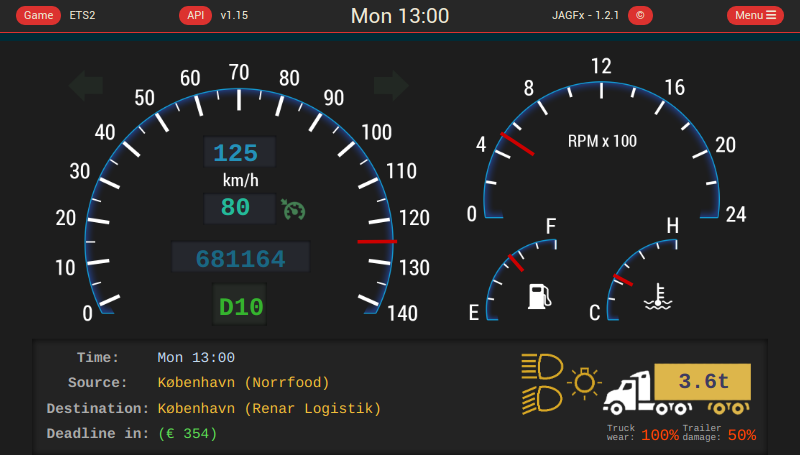
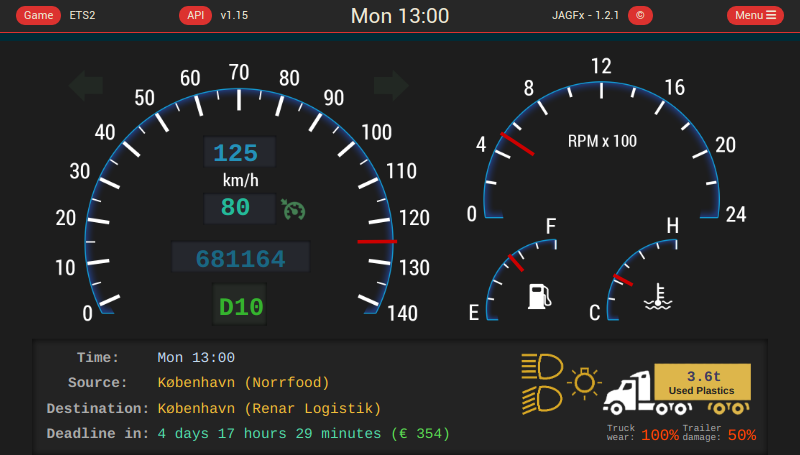
:bug: [default] add missing elements

diff --git a/src/dashboards/defaut/components/DashDefault.vue b/src/dashboards/defaut/components/DashDefault.vue
@@ -62,7 +62,7 @@
 				<div :class="{'yes': dashProps.trailer.attached}" class="trailer-attached"></div>
 				<div class="trailer-mass">{{ (dashProps.job.cargo.mass / 1000).toFixed(1) }}<span class="ton">t</span>
 				</div>
-				<div class="trailer-name"></div>
+				<div class="trailer-name">{{ dashProps.job.cargo.name }}</div>
 				<!-- job information -->
 				<table class="_job">
 					<tr>
@@ -89,8 +89,8 @@
 					</tr>
 					<tr>
 						<th>Deadline in:</th>
-						<td><span class="job-remainingTime"></span>
-							<span class="_jobIncome">(€ <span class="job-income">{{ dashProps.job.income }}</span>)</span>
+						<td><span class="job-remainingTime">{{ formatedTimestamp() }}</span>
+							<span class="_jobIncome"> (€ <span class="job-income">{{ dashProps.job.income }}</span>)</span>
 						</td>
 					</tr>
 				</table>
@@ -114,16 +114,31 @@
 			CadranElement
 		},
 		methods:    {
-			double:       function ( num ) {
+			double:            function ( num ) {
 				return num < 10 ? `0${ num }` : num;
 			},
-			formatedTime: function () {
+			formatedTime:      function () {
 				const telemetryData = this.telemetryData();
 				const date          = new Date( telemetryData.game.time.unix );
 				
 				const days = [ 'Sun', 'Mon', 'Tue', 'Wed', 'Thu', 'Fri', 'Sat' ];
 				
 				return `${ days[ date.getUTCDay() ] } ${ this.double( date.getUTCHours() ) }:${ this.double( date.getUTCMinutes() ) }`;
+			},
+			formatedTimestamp: function () {
+				const telemetryData = this.telemetryData();
+				const d             = new Date( telemetryData.job.deliveryTime.unix );
+				const dys           = d.getUTCDate() - 1;
+				const hrs           = d.getUTCHours();
+				const mnt           = d.getUTCMinutes();
+				let o               = dys > 1 ? dys + ' days ' : (dys != 0 ? dys + ' day ' : '');
+				if ( hrs > 0 )
+					o += hrs > 1 ? hrs + ' hours ' : hrs + ' hour ';
+				if ( mnt > 0 )
+					o += mnt > 1 ? mnt + ' minutes' : mnt + ' minute';
+				if ( !o )
+					o = '';
+				return o;
 			},
 			truckWear() {
 				const telemetryData  = this.telemetryData();

diff --git a/src/dashboards/defaut/assets/scss/default.scss b/src/dashboards/defaut/assets/scss/default.scss
@@ -217,7 +217,7 @@
 		color: #3e3b60;
 		font-family: Courier New, Courier, monospace;
 		font-weight: bold;
-		font-size: 60px;
+		font-size: 40px;
 		position: absolute;
 		left: 1770px;
 		top: 906px;
